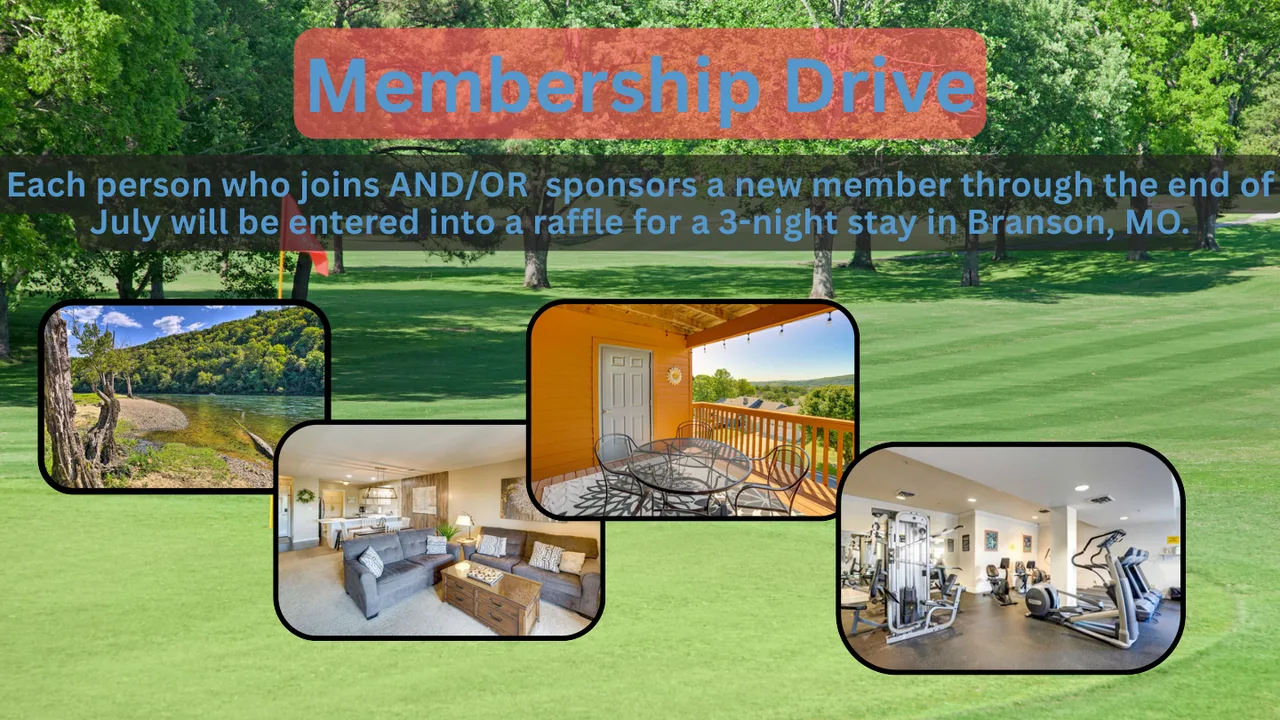
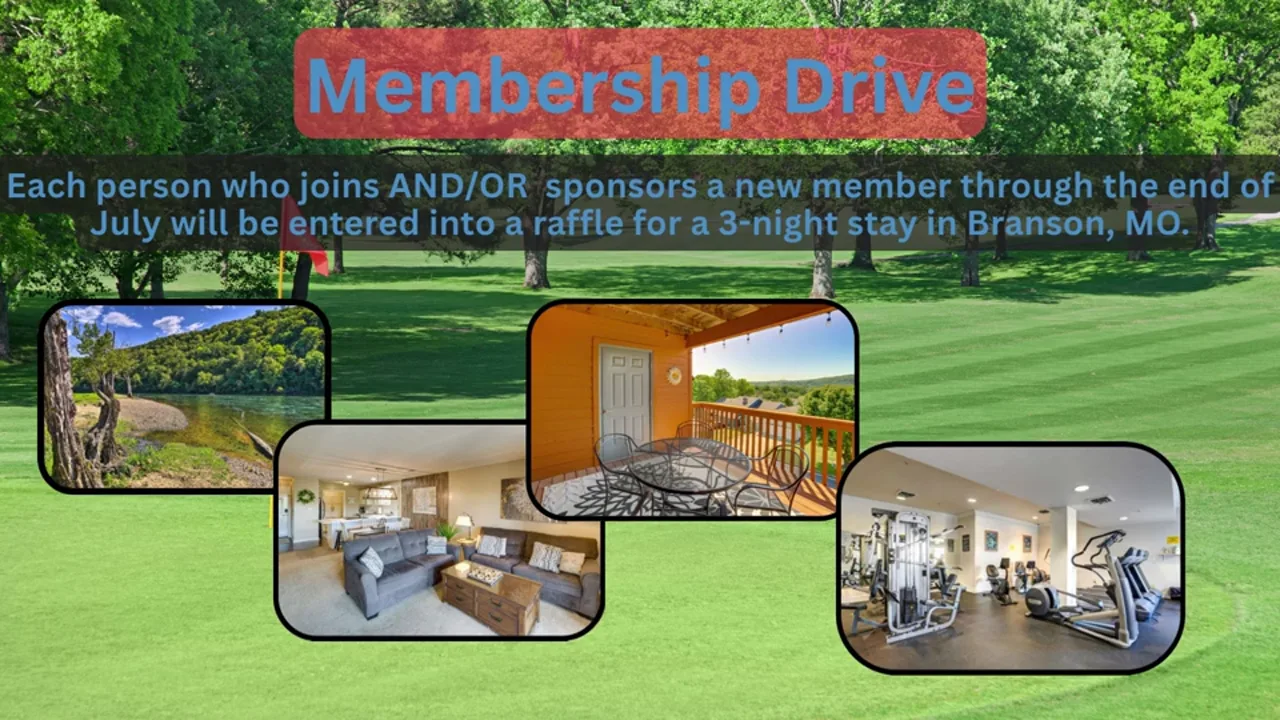
Hide directory links across the site

diff --git a/vivion/index.html b/vivion/index.html
@@ -24,7 +24,6 @@
           <a href="./" class="active">ACA KC North</a>
           <a href="/membership.html">Membership</a>
           <a href="/events/after-hours.html">After-Hours</a>
-          <a href="../directory/">Directory</a>
           <a href="/calendar.html">Calendar</a>
           <a href="../contact.html">Contact</a>
         </nav>
@@ -73,7 +72,6 @@
           </p>
           <div class="aca-cta-row">
             <a class="aca-btn aca-btn-gold" href="../contact.html">Inquire About Membership</a>
-            <a class="aca-btn aca-btn-outline" href="../directory/">Browse the Directory</a>
           </div>
         </div>
       </section>
@@ -100,7 +98,6 @@
               <h3>Where Members Convene</h3>
               <p>Regular member events, professional development sessions, and small-group
                   gatherings happen here. The bulk of the chapter's calendar lives at ACA KC North.</p>
-              <a class="hub-card-cta" href="../directory/">Browse the Directory &rarr;</a>
             </div>
           </article>
           <article class="hub-card">
@@ -220,7 +217,6 @@
         </div>
         <div>
           <h3>The Club</h3>
-          <a href="../directory/">Member Directory</a>
           <a href="../contact.html">Contact &amp; Membership</a>
           <a href="https://1894.tours" rel="noopener">1894.tours &mdash; Book the Space</a>
         </div>

diff --git a/liberty/index.html b/liberty/index.html
@@ -24,7 +24,6 @@
           <a href="../vivion/">ACA KC North</a>
           <a href="/membership.html">Membership</a>
           <a href="/events/after-hours.html">After-Hours</a>
-          <a href="../directory/">Directory</a>
           <a href="/calendar.html">Calendar</a>
           <a href="../contact.html">Contact</a>
         </nav>
@@ -257,7 +256,6 @@
         <h2>Liberty Square is full of ACA members.</h2>
         <p>Browse the directory to see who's around the square &mdash; the Building hosts,
         the shops, the makers, the service pros. All part of the club.</p>
-        <p style="margin-top:24px;"><a class="aca-btn aca-btn-gold" href="../directory/">Open the Directory</a></p>
       </section>
 
       <section class="aca-section location-section">
@@ -340,7 +338,6 @@
         </div>
         <div>
           <h3>The Club</h3>
-          <a href="../directory/">Member Directory</a>
           <a href="../contact.html">Contact &amp; Membership</a>
           <a href="https://1894.tours" rel="noopener">1894.tours &mdash; Book the Space</a>
         </div>

diff --git a/membership.html b/membership.html
@@ -24,7 +24,6 @@
           <a href="vivion/">ACA KC North</a>
           <a href="/membership.html" class="active">Membership</a>
           <a href="/events/after-hours.html">After-Hours</a>
-          <a href="directory/">Directory</a>
           <a href="calendar.html">Calendar</a>
           <a href="contact.html">Contact</a>
         </nav>
@@ -144,7 +143,6 @@
               <h3>Get Endorsed</h3>
               <p>A current member sponsors you. That's the American club tradition &mdash;
                   members put their name behind the next member. Welcome to the room.</p>
-              <a class="hub-card-cta" href="directory/">See the Members &rarr;</a>
             </div>
           </article>
         </div>
@@ -171,7 +169,6 @@
         <div>
           <h3>The Club</h3>
           <a href="/membership.html">Membership</a>
-          <a href="directory/">Member Directory</a>
           <a href="guest.html">Guest Sign-In</a>
           <a href="contact.html">Contact</a>
           <a href="https://1894.tours" rel="noopener">1894.tours &mdash; Book the Space</a>

diff --git a/index.html b/index.html
@@ -24,7 +24,6 @@
           <a href="vivion/">ACA KC North</a>
           <a href="/membership.html">Membership</a>
           <a href="/events/after-hours.html">After-Hours</a>
-          <a href="directory/">Directory</a>
           <a href="/calendar.html">Calendar</a>
           <a href="contact.html">Contact</a>
         </nav>
@@ -134,7 +133,6 @@
           </p>
           <div class="aca-cta-row">
             <a class="aca-btn aca-btn-gold" href="contact.html">Inquire About Membership</a>
-            <a class="aca-btn aca-btn-outline" href="directory/">Browse the Directory</a>
           </div>
         </div>
       </section>
@@ -215,7 +213,6 @@
         </div>
         <div>
           <h3>The Club</h3>
-          <a href="directory/">Member Directory</a>
           <a href="contact.html">Contact &amp; Membership</a>
           <a href="https://1894.tours" rel="noopener">1894.tours &mdash; Book the Space</a>
         </div>

diff --git a/events/501-marketing-club/index.html b/events/501-marketing-club/index.html
@@ -144,7 +144,6 @@
       <li><a href="https://acanorthland.com/vivion/">ACA KC North</a></li>
       <li><a href="https://acanorthland.com/membership.html">Membership</a></li>
       <li><a href="https://acanorthland.com/events/after-hours.html">After-Hours</a></li>
-      <li><a href="https://acanorthland.com/directory/">Directory</a></li>
       <li><a href="https://acanorthland.com/calendar.html">Calendar</a></li>
       <li><a href="https://acanorthland.com/contact.html">Contact</a></li>
     </ul>
@@ -272,7 +271,6 @@
       <div class="footer-col">
         <h4>The Club</h4>
         <ul>
-          <li><a href="https://acanorthland.com/directory/">Member Directory</a></li>
           <li><a href="https://acanorthland.com/contact.html">Contact &amp; Membership</a></li>
           <li><a href="https://1894.tours">1894.tours — Book the Space</a></li>
         </ul>

diff --git a/events/quartermania-july/index.html b/events/quartermania-july/index.html
@@ -254,7 +254,6 @@
       <li><a href="https://acanorthland.com/vivion/">ACA KC North</a></li>
       <li><a href="https://acanorthland.com/membership.html">Membership</a></li>
       <li><a href="https://acanorthland.com/events/after-hours.html">After-Hours</a></li>
-      <li><a href="https://acanorthland.com/directory/">Directory</a></li>
       <li><a href="https://acanorthland.com/calendar.html">Calendar</a></li>
       <li><a href="https://acanorthland.com/contact.html">Contact</a></li>
     </ul>
@@ -410,7 +409,6 @@
       <div class="footer-col">
         <h4>The Club</h4>
         <ul>
-          <li><a href="https://acanorthland.com/directory/">Member Directory</a></li>
           <li><a href="https://acanorthland.com/contact.html">Contact &amp; Membership</a></li>
           <li><a href="https://1894.tours">1894.tours — Book the Space</a></li>
         </ul>

diff --git a/events/t3-trivia/index.html b/events/t3-trivia/index.html
@@ -139,7 +139,6 @@
       <li><a href="https://acanorthland.com/vivion/">ACA KC North</a></li>
       <li><a href="https://acanorthland.com/membership.html">Membership</a></li>
       <li><a href="https://acanorthland.com/events/after-hours.html">After-Hours</a></li>
-      <li><a href="https://acanorthland.com/directory/">Directory</a></li>
       <li><a href="https://acanorthland.com/calendar.html">Calendar</a></li>
       <li><a href="https://acanorthland.com/contact.html">Contact</a></li>
     </ul>
@@ -271,7 +270,6 @@
       <div class="footer-col">
         <h4>The Club</h4>
         <ul>
-          <li><a href="https://acanorthland.com/directory/">Member Directory</a></li>
           <li><a href="https://acanorthland.com/contact.html">Contact &amp; Membership</a></li>
           <li><a href="https://1894.tours">1894.tours — Book the Space</a></li>
         </ul>

diff --git a/directory/index.html b/directory/index.html
@@ -1,4 +1,4 @@
-<!doctype html>
+<!doctype html>
 <html lang="en">
   <head>
     <meta charset="utf-8">
@@ -71,7 +71,6 @@
           <a href="../vivion/">ACA KC North</a>
           <a href="/membership.html">Membership</a>
           <a href="/events/after-hours.html">After-Hours</a>
-          <a href="./" class="active">Directory</a>
           <a href="../contact.html">Contact</a>
         </nav>
       </div>
@@ -14373,7 +14372,6 @@
         </div>
         <div>
           <h3>The Club</h3>
-          <a href="./">Member Directory</a>
           <a href="../contact.html">Contact &amp; Membership</a>
           <a href="https://1894.tours" rel="noopener">1894.tours &mdash; Book the Space</a>
         </div>

diff --git a/calendar.html b/calendar.html
@@ -37,7 +37,6 @@
           <a href="vivion/">ACA KC North</a>
           <a href="/membership.html">Membership</a>
           <a href="/events/after-hours.html">After-Hours</a>
-          <a href="directory/">Directory</a>
           <a href="/calendar.html" class="active">Calendar</a>
           <a href="contact.html">Contact</a>
         </nav>
@@ -113,7 +112,6 @@
         <div>
           <h3>The Club</h3>
           <a href="/membership.html">Membership</a>
-          <a href="directory/">Member Directory</a>
           <a href="guest.html">Guest Sign-In</a>
           <a href="contact.html">Contact</a>
           <a href="https://1894.tours" rel="noopener">1894.tours — Book the Space</a>

diff --git a/events/after-hours.html b/events/after-hours.html
@@ -24,7 +24,6 @@
           <a href="../vivion/">ACA KC North</a>
           <a href="/membership.html">Membership</a>
           <a href="/events/after-hours.html" class="active">After-Hours</a>
-          <a href="../directory/">Directory</a>
           <a href="/calendar.html">Calendar</a>
           <a href="../contact.html">Contact</a>
         </nav>
@@ -170,7 +169,6 @@
         </div>
         <div>
           <h3>The Club</h3>
-          <a href="../directory/">Member Directory</a>
           <a href="../contact.html">Contact &amp; Membership</a>
           <a href="https://1894.tours" rel="noopener">1894.tours &mdash; Book the Space</a>
         </div>

diff --git a/guest.html b/guest.html
@@ -24,7 +24,6 @@
           <a href="vivion/">ACA KC North</a>
           <a href="/membership.html">Membership</a>
           <a href="/events/after-hours.html">After-Hours</a>
-          <a href="directory/">Directory</a>
           <a href="/calendar.html">Calendar</a>
           <a href="contact.html">Contact</a>
         </nav>
@@ -69,7 +68,6 @@
         <div>
           <h3>The Club</h3>
           <a href="/membership.html">Membership</a>
-          <a href="directory/">Member Directory</a>
           <a href="contact.html">Contact</a>
           <a href="https://1894.tours" rel="noopener">1894.tours — Book the Space</a>
         </div>

diff --git a/contact.html b/contact.html
@@ -24,7 +24,6 @@
           <a href="vivion/">ACA KC North</a>
           <a href="/membership.html">Membership</a>
           <a href="/events/after-hours.html">After-Hours</a>
-          <a href="directory/">Directory</a>
           <a href="/calendar.html">Calendar</a>
           <a href="contact.html" class="active">Contact</a>
         </nav>
@@ -98,7 +97,6 @@
         </div>
         <div>
           <h3>The Club</h3>
-          <a href="directory/">Member Directory</a>
           <a href="contact.html">Contact &amp; Membership</a>
           <a href="https://1894.tours" rel="noopener">1894.tours &mdash; Book the Space</a>
         </div>
